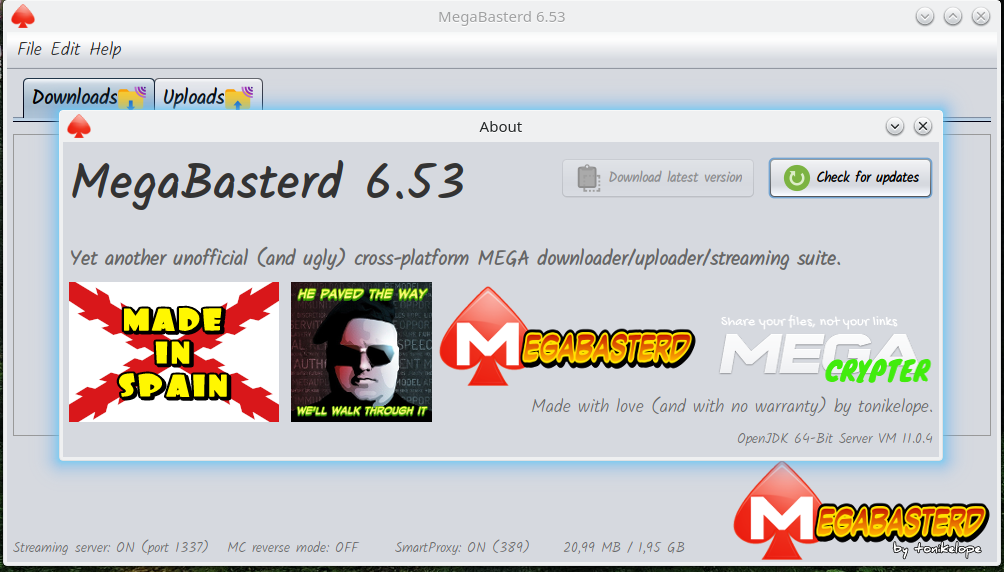
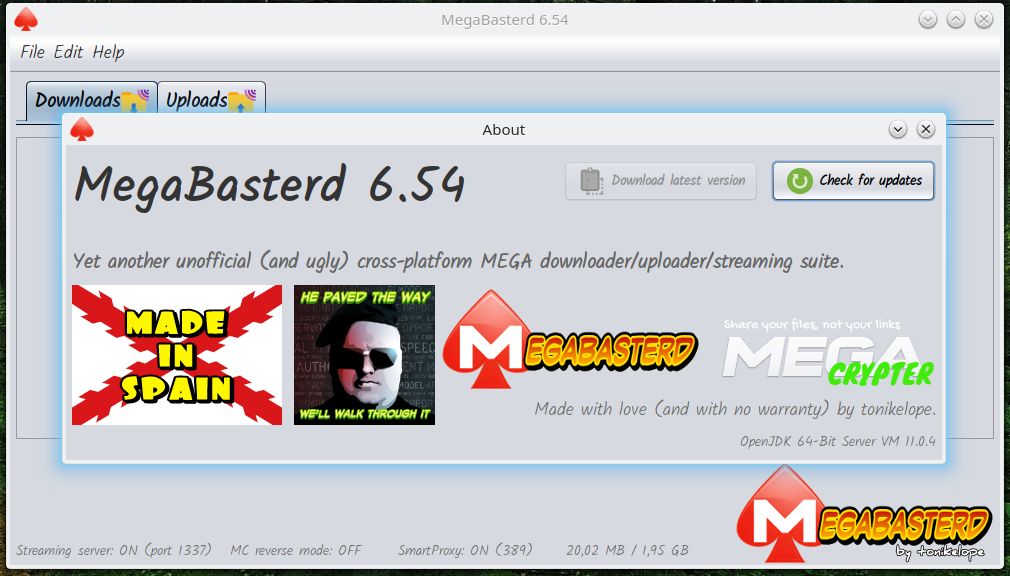
6.53b
(cherry picked from commit 217611e3e2dd3923d9d2de72e89704379750317d)

diff --git a/src/main/java/com/tonikelope/megabasterd/MainPanel.java b/src/main/java/com/tonikelope/megabasterd/MainPanel.java
@@ -53,7 +53,7 @@ import javax.swing.UIManager;
  */
 public class MainPanel {
 
-    public static final String VERSION = "6.53";
+    public static final String VERSION = "6.54";
     public static final int THROTTLE_SLICE_SIZE = 16 * 1024;
     public static final int DEFAULT_BYTE_BUFFER_SIZE = 16 * 1024;
     public static final int STREAMER_PORT = 1337;
@@ -973,24 +973,25 @@ public class MainPanel {
 
                 }
 
-                Object[] options = {"No",
-                    LabelTranslatorSingleton.getInstance().translate("Yes")};
+                if (!old_version.equals("0.0")) {
+                    Object[] options = {"No",
+                        LabelTranslatorSingleton.getInstance().translate("Yes")};
 
-                int n = showOptionDialog(getView(),
-                        LabelTranslatorSingleton.getInstance().translate("An older version (" + old_version + ") of MegaBasterd has been detected.\nDo you want to import all current settings and transfers from the previous version?\nWARNING: INCOMPATIBILITIES MAY EXIST BETWEEN VERSIONS."),
-                        LabelTranslatorSingleton.getInstance().translate("Warning!"), YES_NO_CANCEL_OPTION, WARNING_MESSAGE,
-                        null,
-                        options,
-                        options[0]);
+                    int n = showOptionDialog(getView(),
+                            LabelTranslatorSingleton.getInstance().translate("An older version (" + old_version + ") of MegaBasterd has been detected.\nDo you want to import all current settings and transfers from the previous version?\nWARNING: INCOMPATIBILITIES MAY EXIST BETWEEN VERSIONS."),
+                            LabelTranslatorSingleton.getInstance().translate("Warning!"), YES_NO_CANCEL_OPTION, WARNING_MESSAGE,
+                            null,
+                            options,
+                            options[0]);
 
-                if (n == 1) {
-                    Files.copy(Paths.get(System.getProperty("user.home") + "/.megabasterd" + old_version + "/" + SqliteSingleton.SQLITE_FILE), Paths.get(System.getProperty("user.home") + "/.megabasterd" + MainPanel.VERSION + "/" + SqliteSingleton.SQLITE_FILE), StandardCopyOption.REPLACE_EXISTING);
+                    if (n == 1) {
+                        Files.copy(Paths.get(System.getProperty("user.home") + "/.megabasterd" + old_version + "/" + SqliteSingleton.SQLITE_FILE), Paths.get(System.getProperty("user.home") + "/.megabasterd" + MainPanel.VERSION + "/" + SqliteSingleton.SQLITE_FILE), StandardCopyOption.REPLACE_EXISTING);
 
-                    JOptionPane.showMessageDialog(getView(), LabelTranslatorSingleton.getInstance().translate("MegaBasterd will restart"), LabelTranslatorSingleton.getInstance().translate("Restart required"), JOptionPane.WARNING_MESSAGE);
+                        JOptionPane.showMessageDialog(getView(), LabelTranslatorSingleton.getInstance().translate("MegaBasterd will restart"), LabelTranslatorSingleton.getInstance().translate("Restart required"), JOptionPane.WARNING_MESSAGE);
 
-                    restartApplication();
+                        restartApplication();
+                    }
                 }
-
             }
 
         } catch (IOException ex) {
